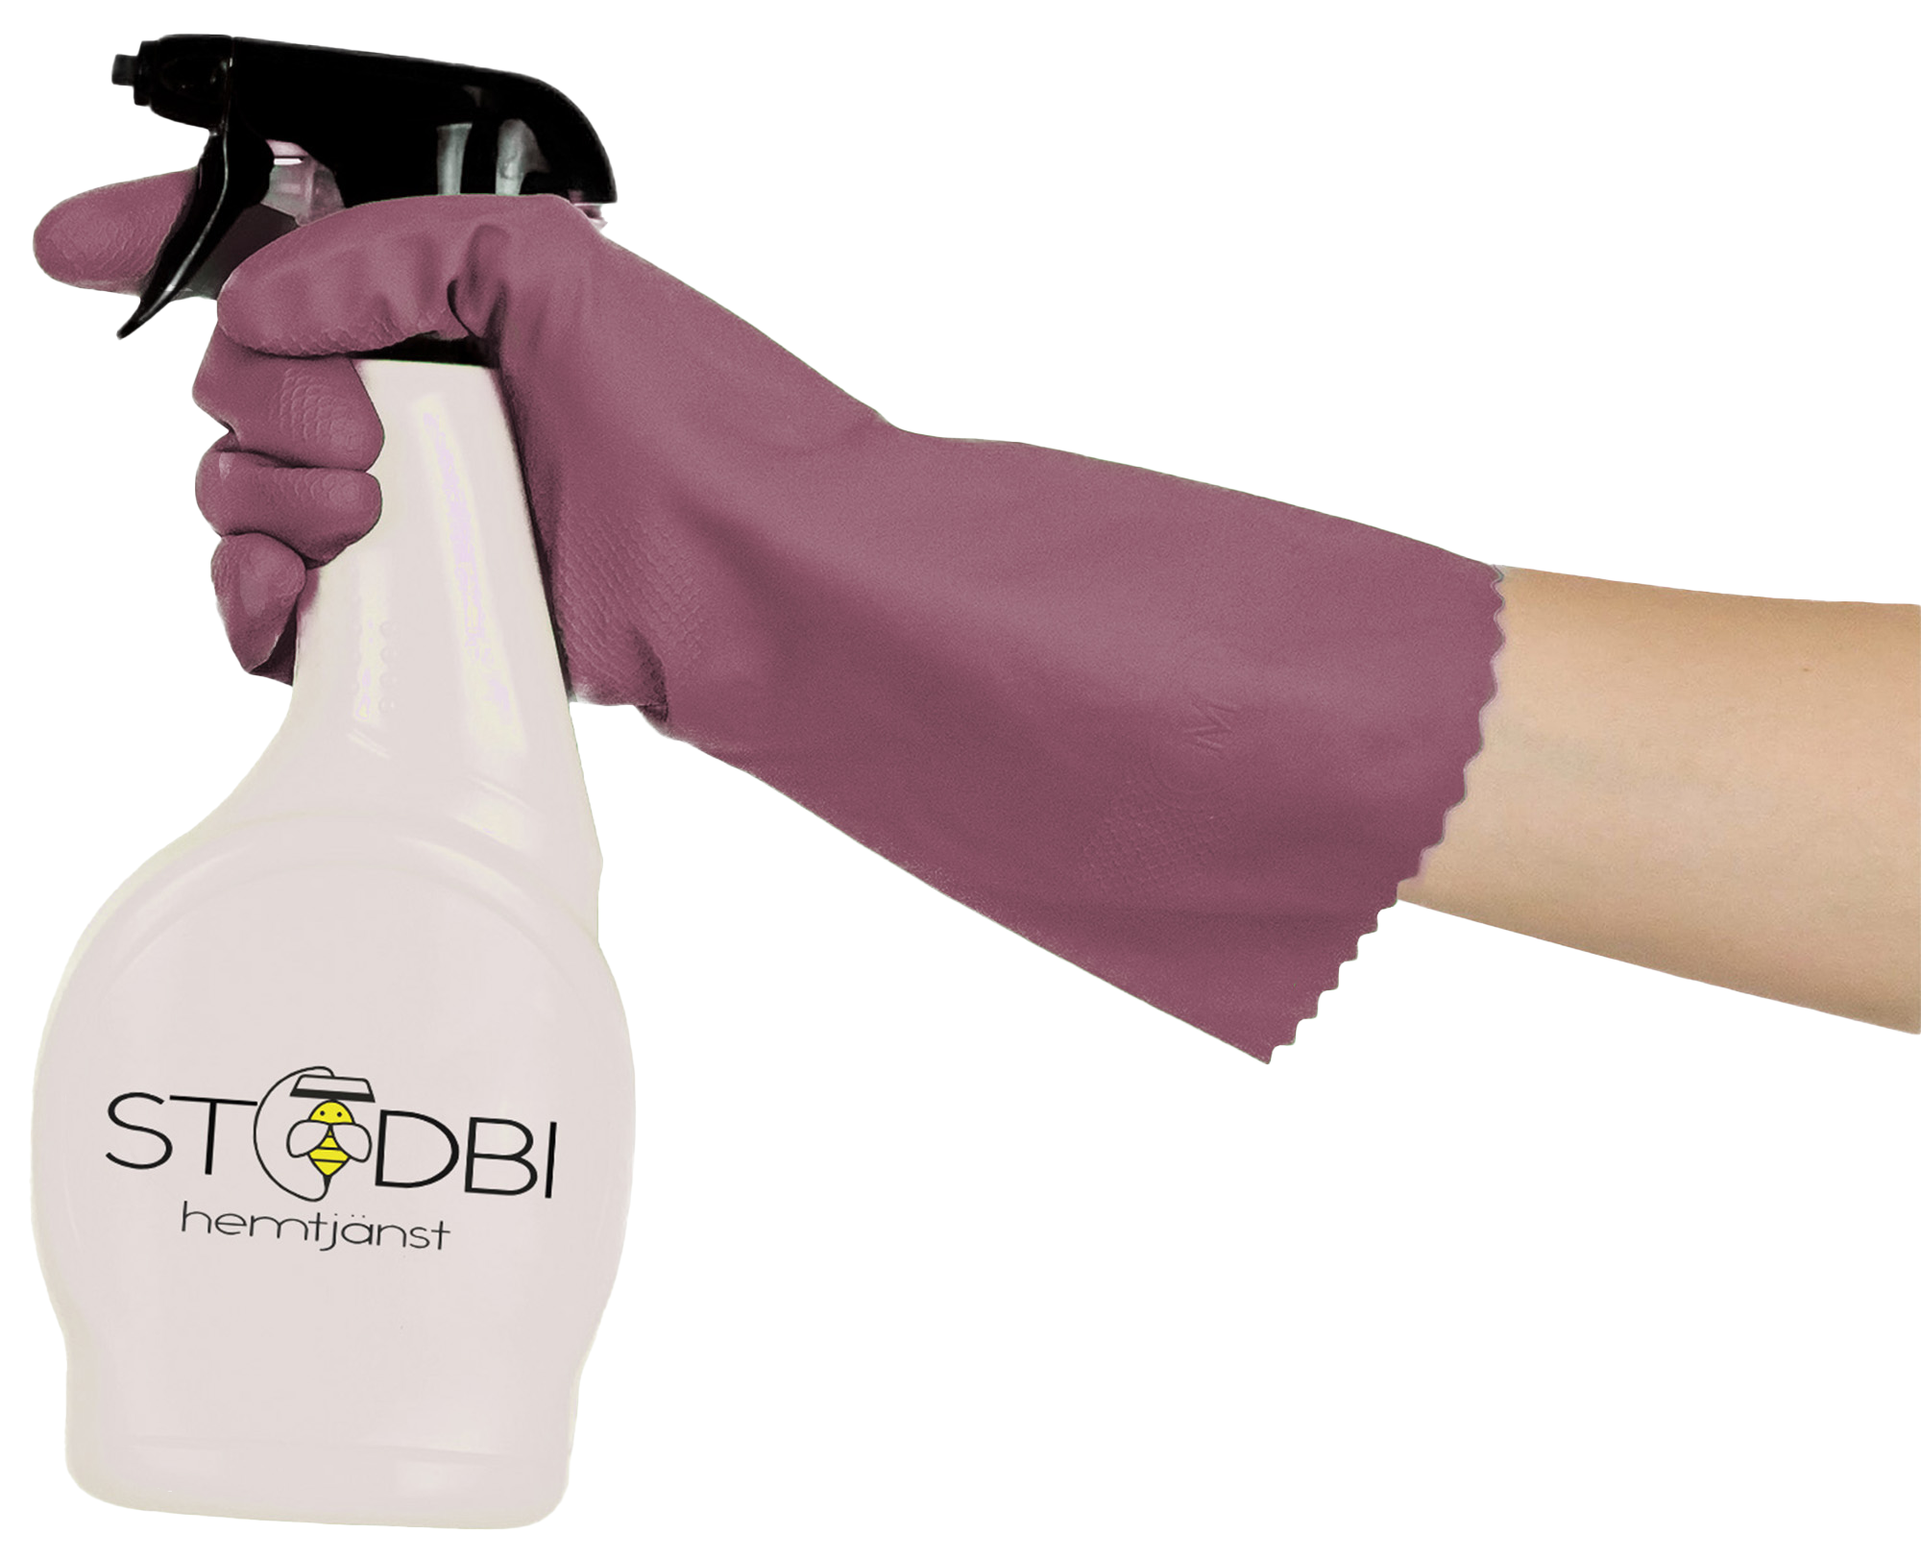
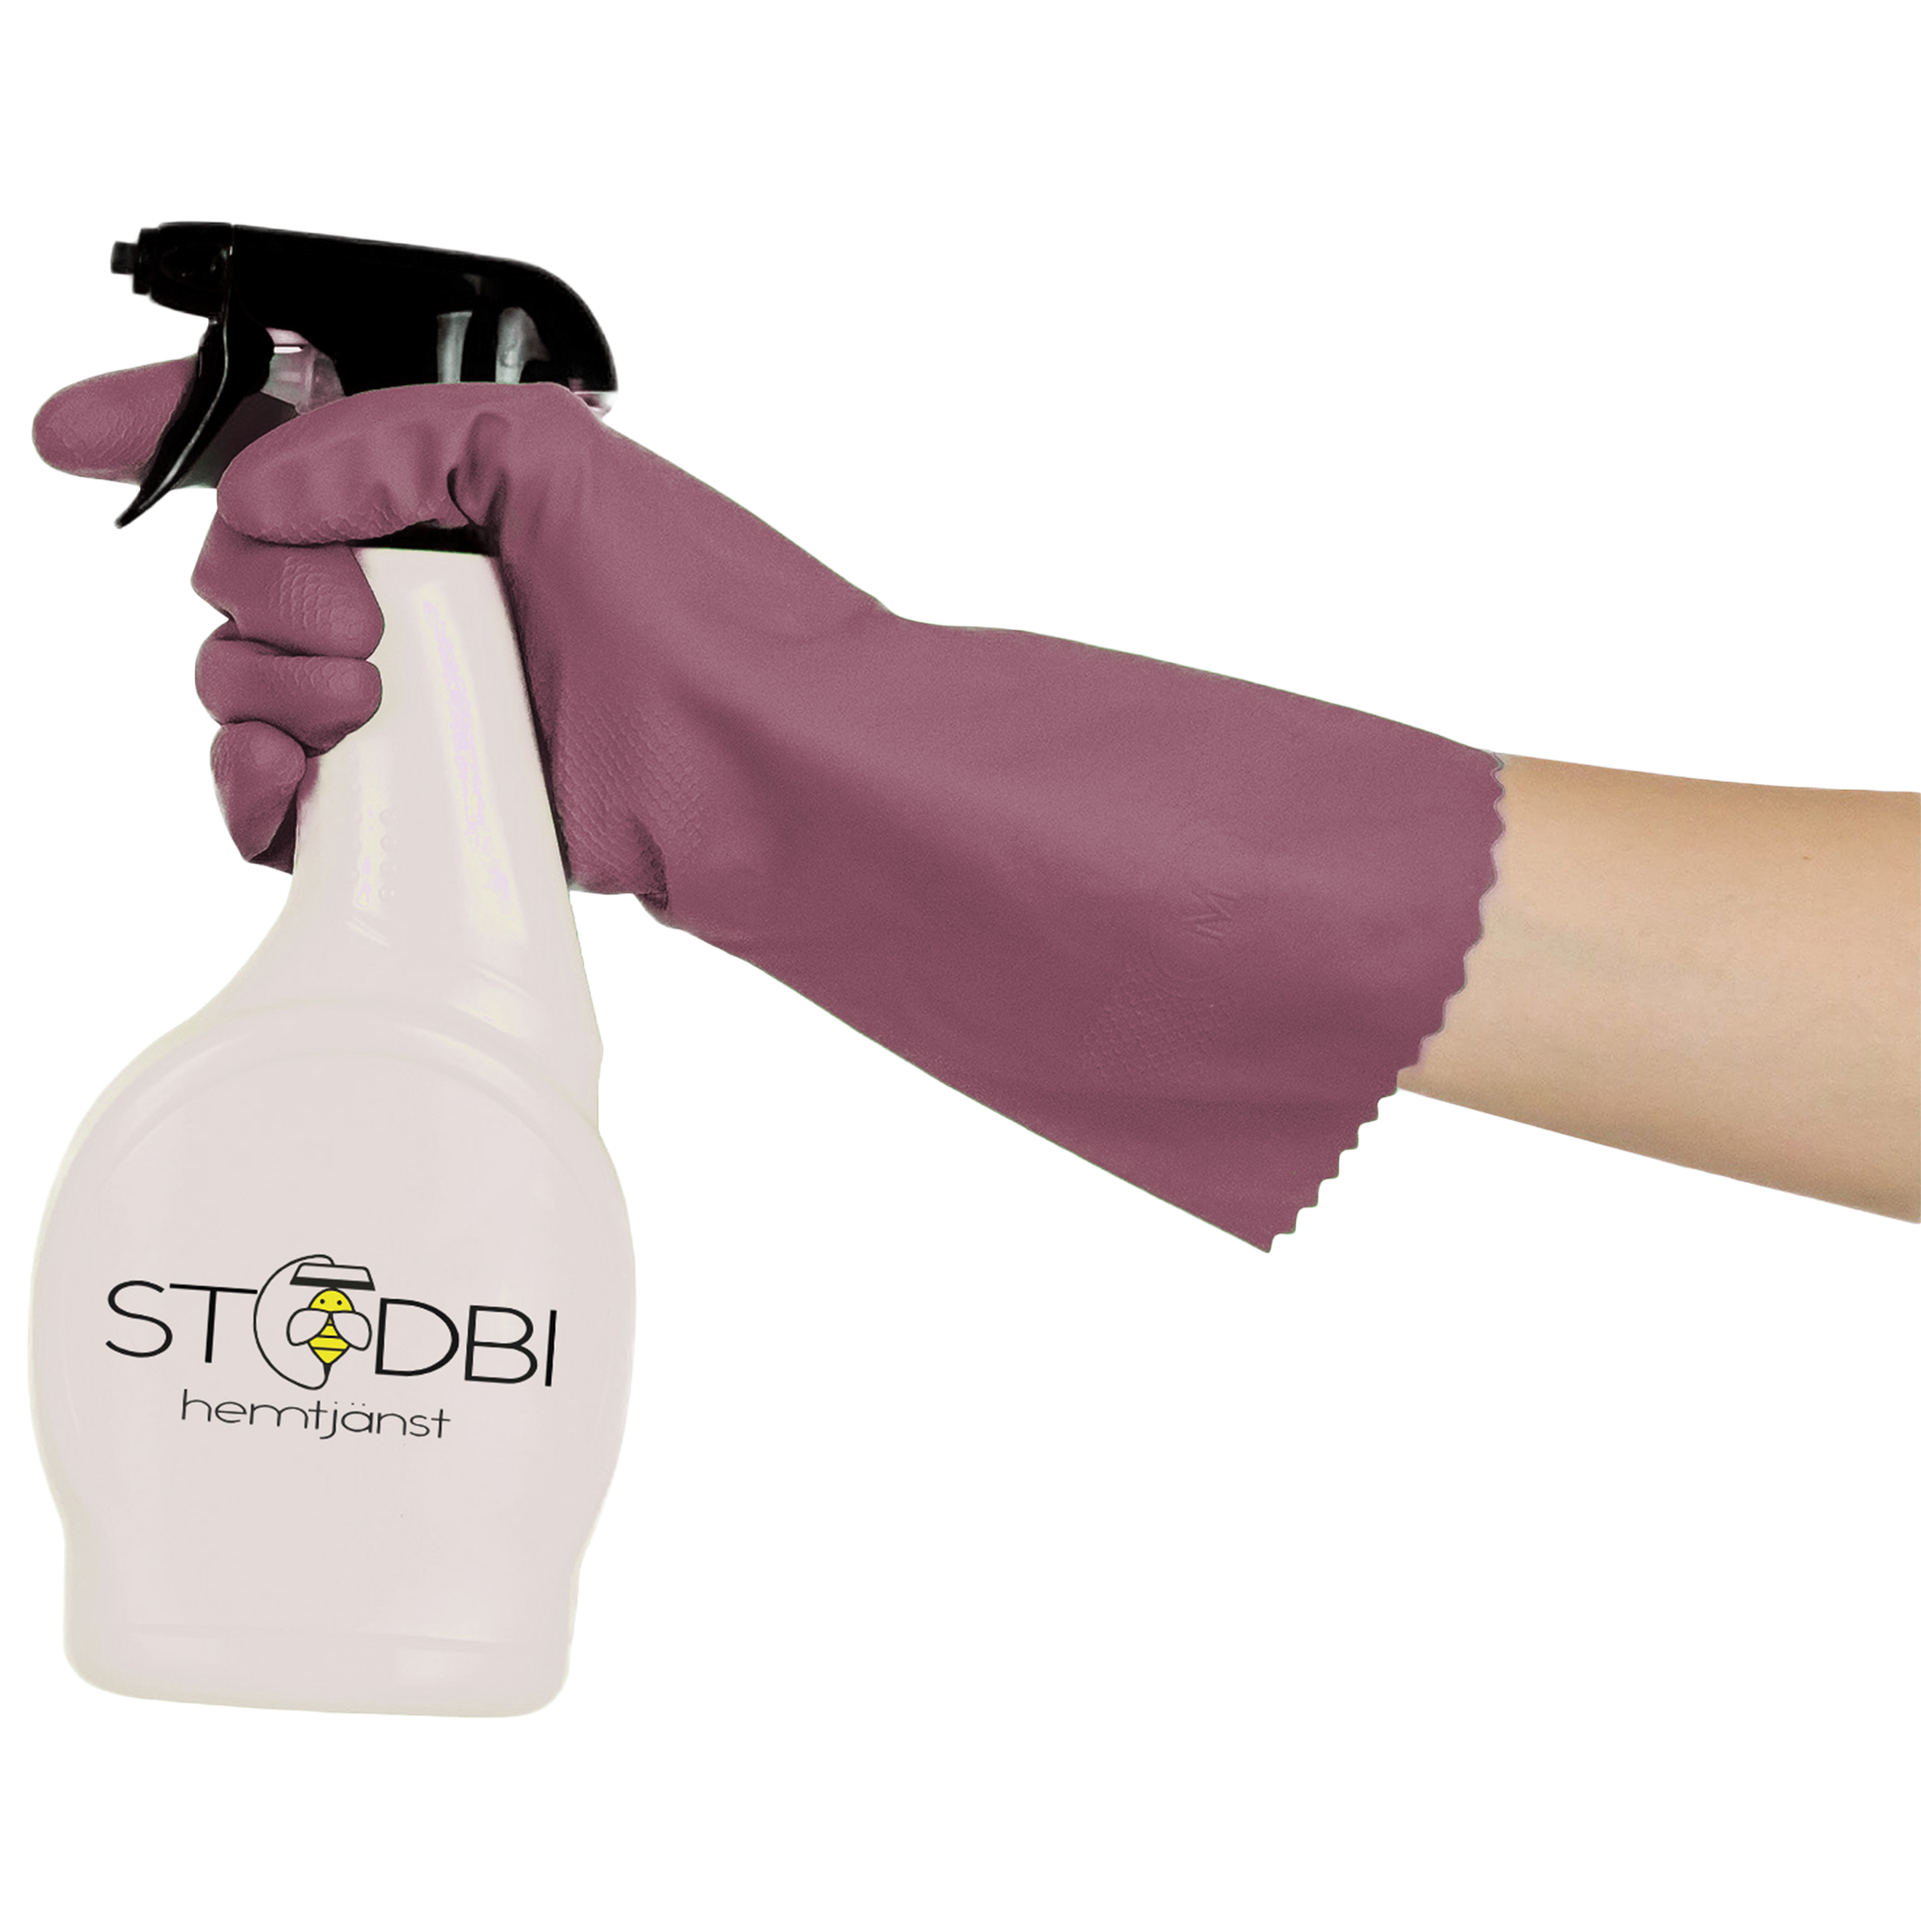
Replace old image with green glove with new one with pink glove, making sure the format and size is the same

diff --git a/index.html b/index.html
@@ -216,7 +216,7 @@
 
           <div class="hero-section-area image-area">
             <img
-              src="assets/images/mano_cropped.png"
+              src="assets/images/mano_cropped_pink.png"
               class="hero-section-image"
               alt="gröna hanskar med spray rengöringsmedel"
             />
